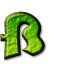
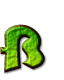
New glyphs in green font

Changed region(s): [[0.0, 0.1562, 0.7188, 0.9062], [0.0625, 0.8125, 0.3438, 0.9688], [0.3125, 0.6875, 0.3438, 0.7188]]

diff --git a/rawdata/mkatlas.py b/rawdata/mkatlas.py
@@ -64,9 +64,11 @@ def get_raw_glyph_info(path):
     fixw = glyphstr.endswith(".FIXW")
     glyphstr = glyphstr.removesuffix(".FIXW")
 
-    if glyphstr.startswith('#'):
-        glyphstr = glyphstr.removeprefix('#')
-        codepoint = int(glyphstr)
+    if glyphstr.startswith('#x'):
+        codepoint = int(glyphstr[2:], 16)
+        glyphstr = chr(codepoint)
+    elif glyphstr.startswith('#'):
+        codepoint = int(glyphstr[1:])
         glyphstr = chr(codepoint)
     elif len(glyphstr) > 1:
         glyphstr = html.unescape("&" + glyphstr + ";")
